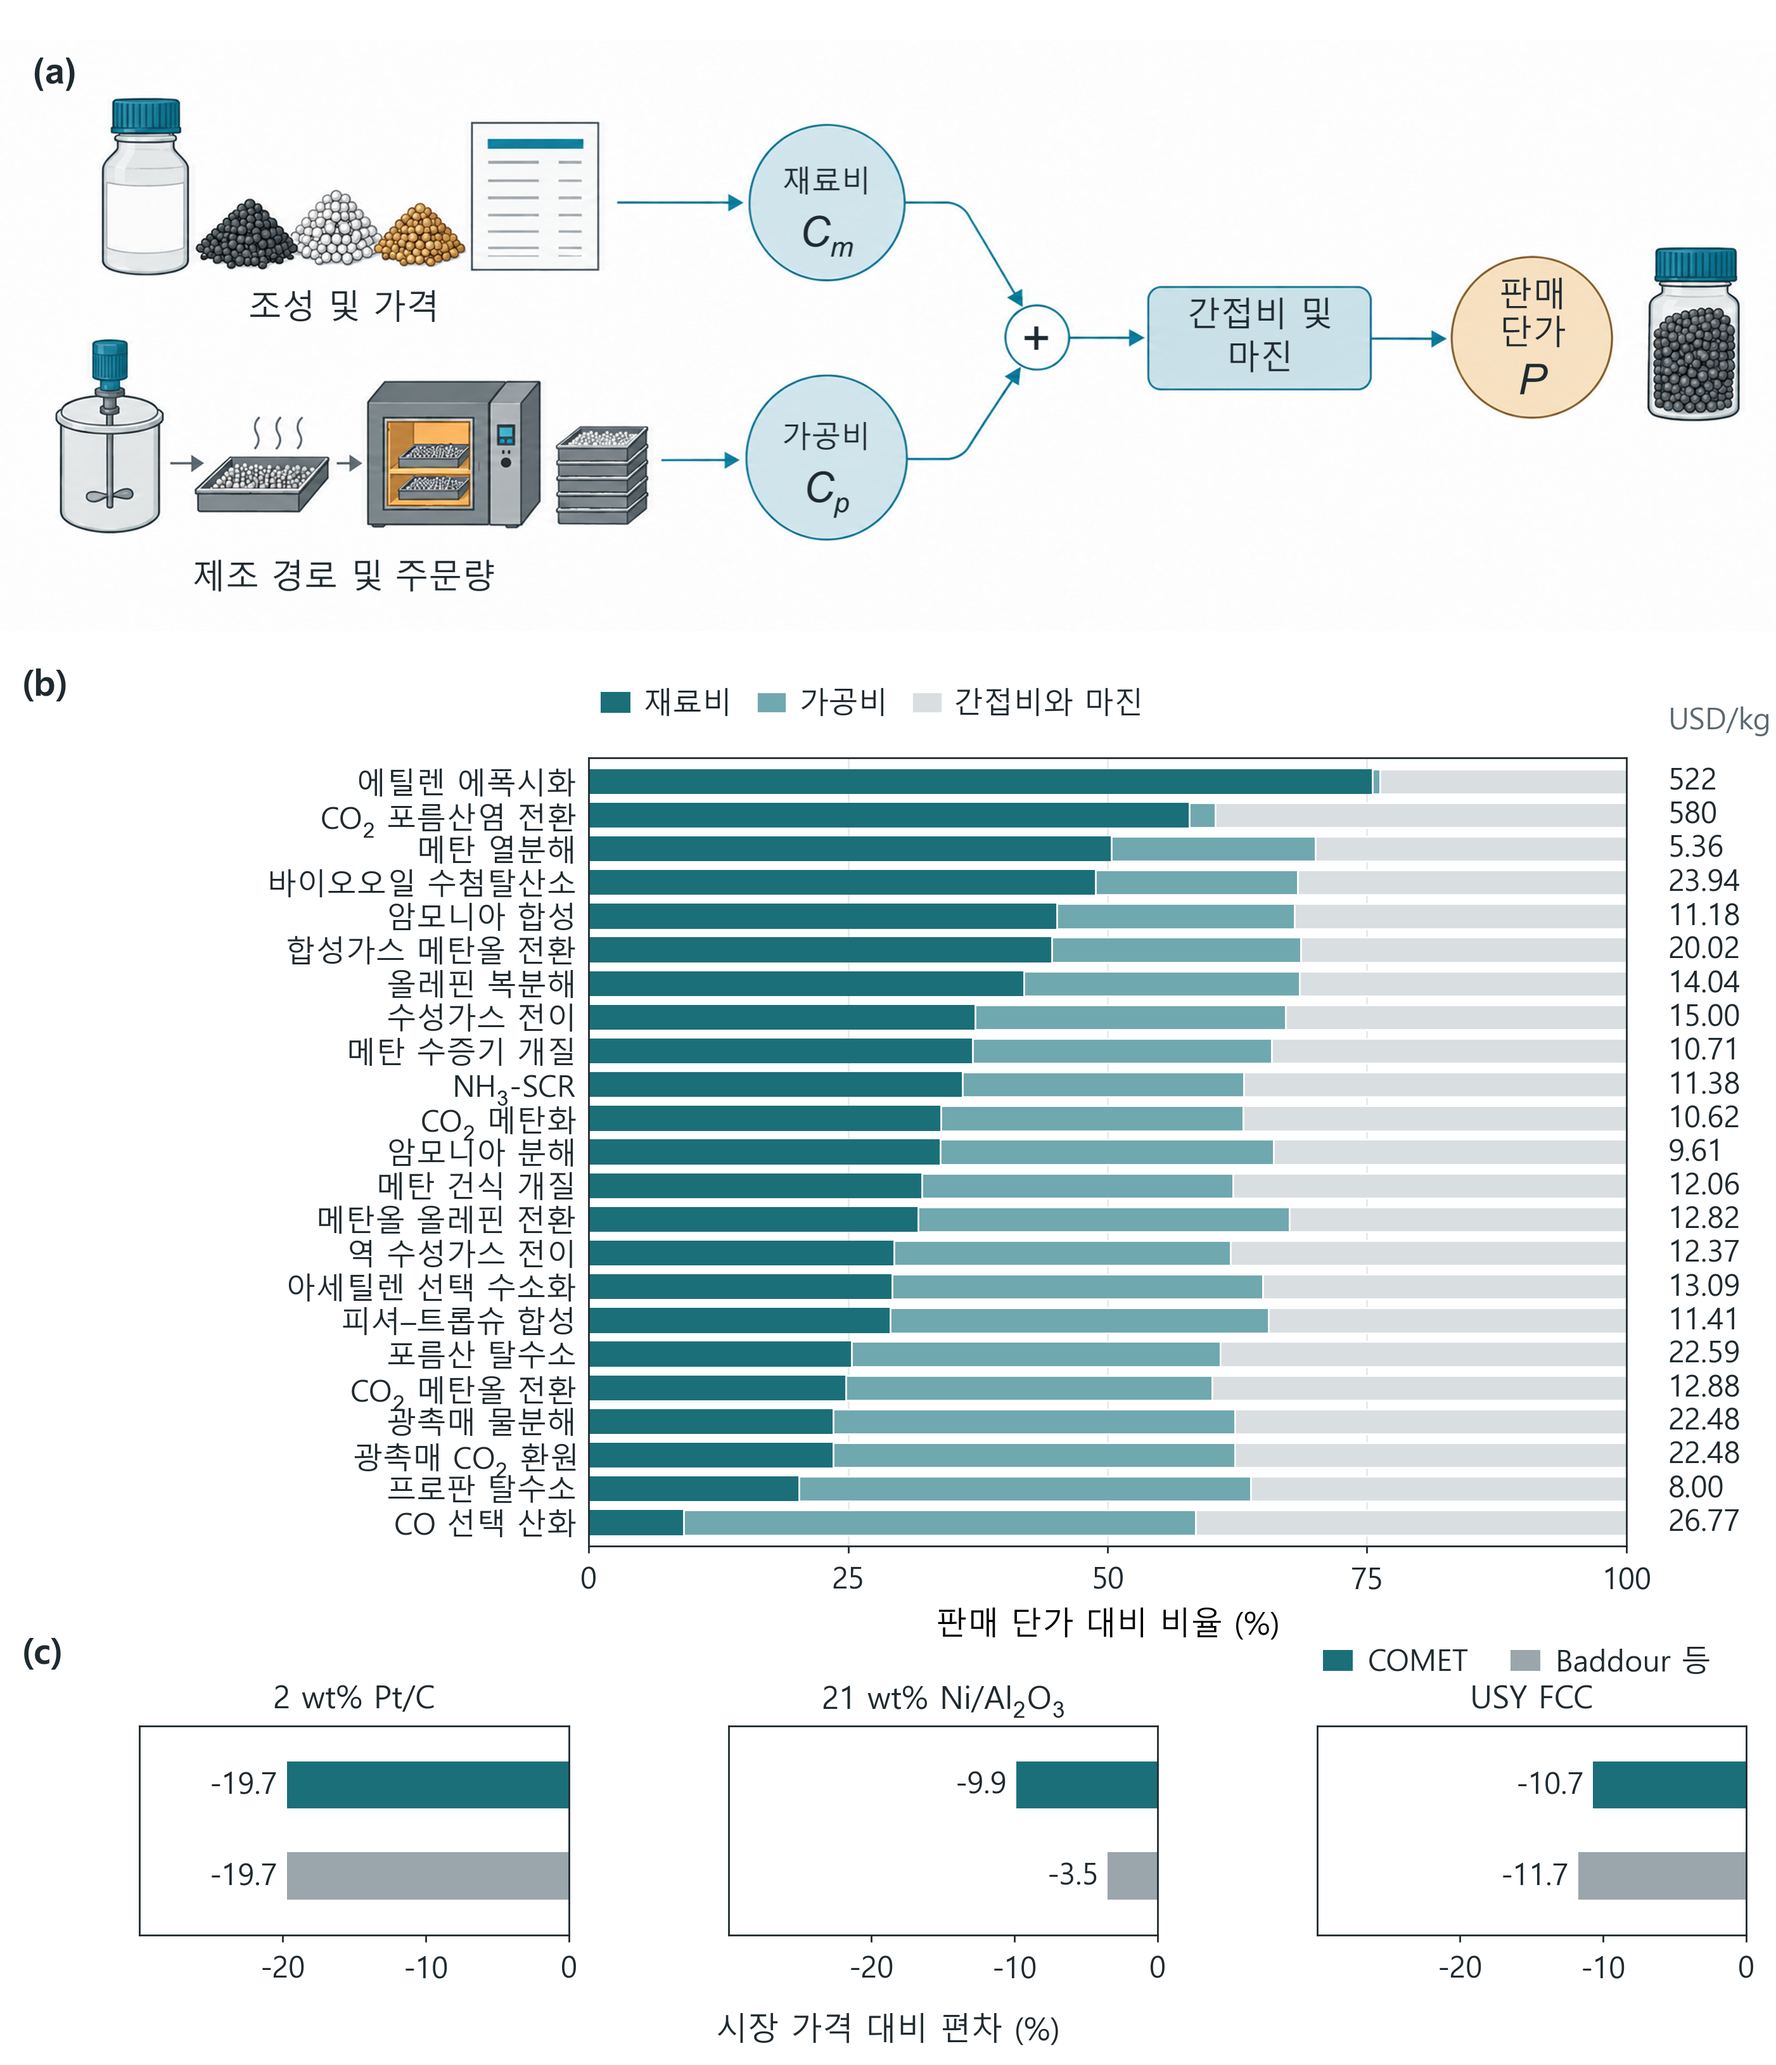
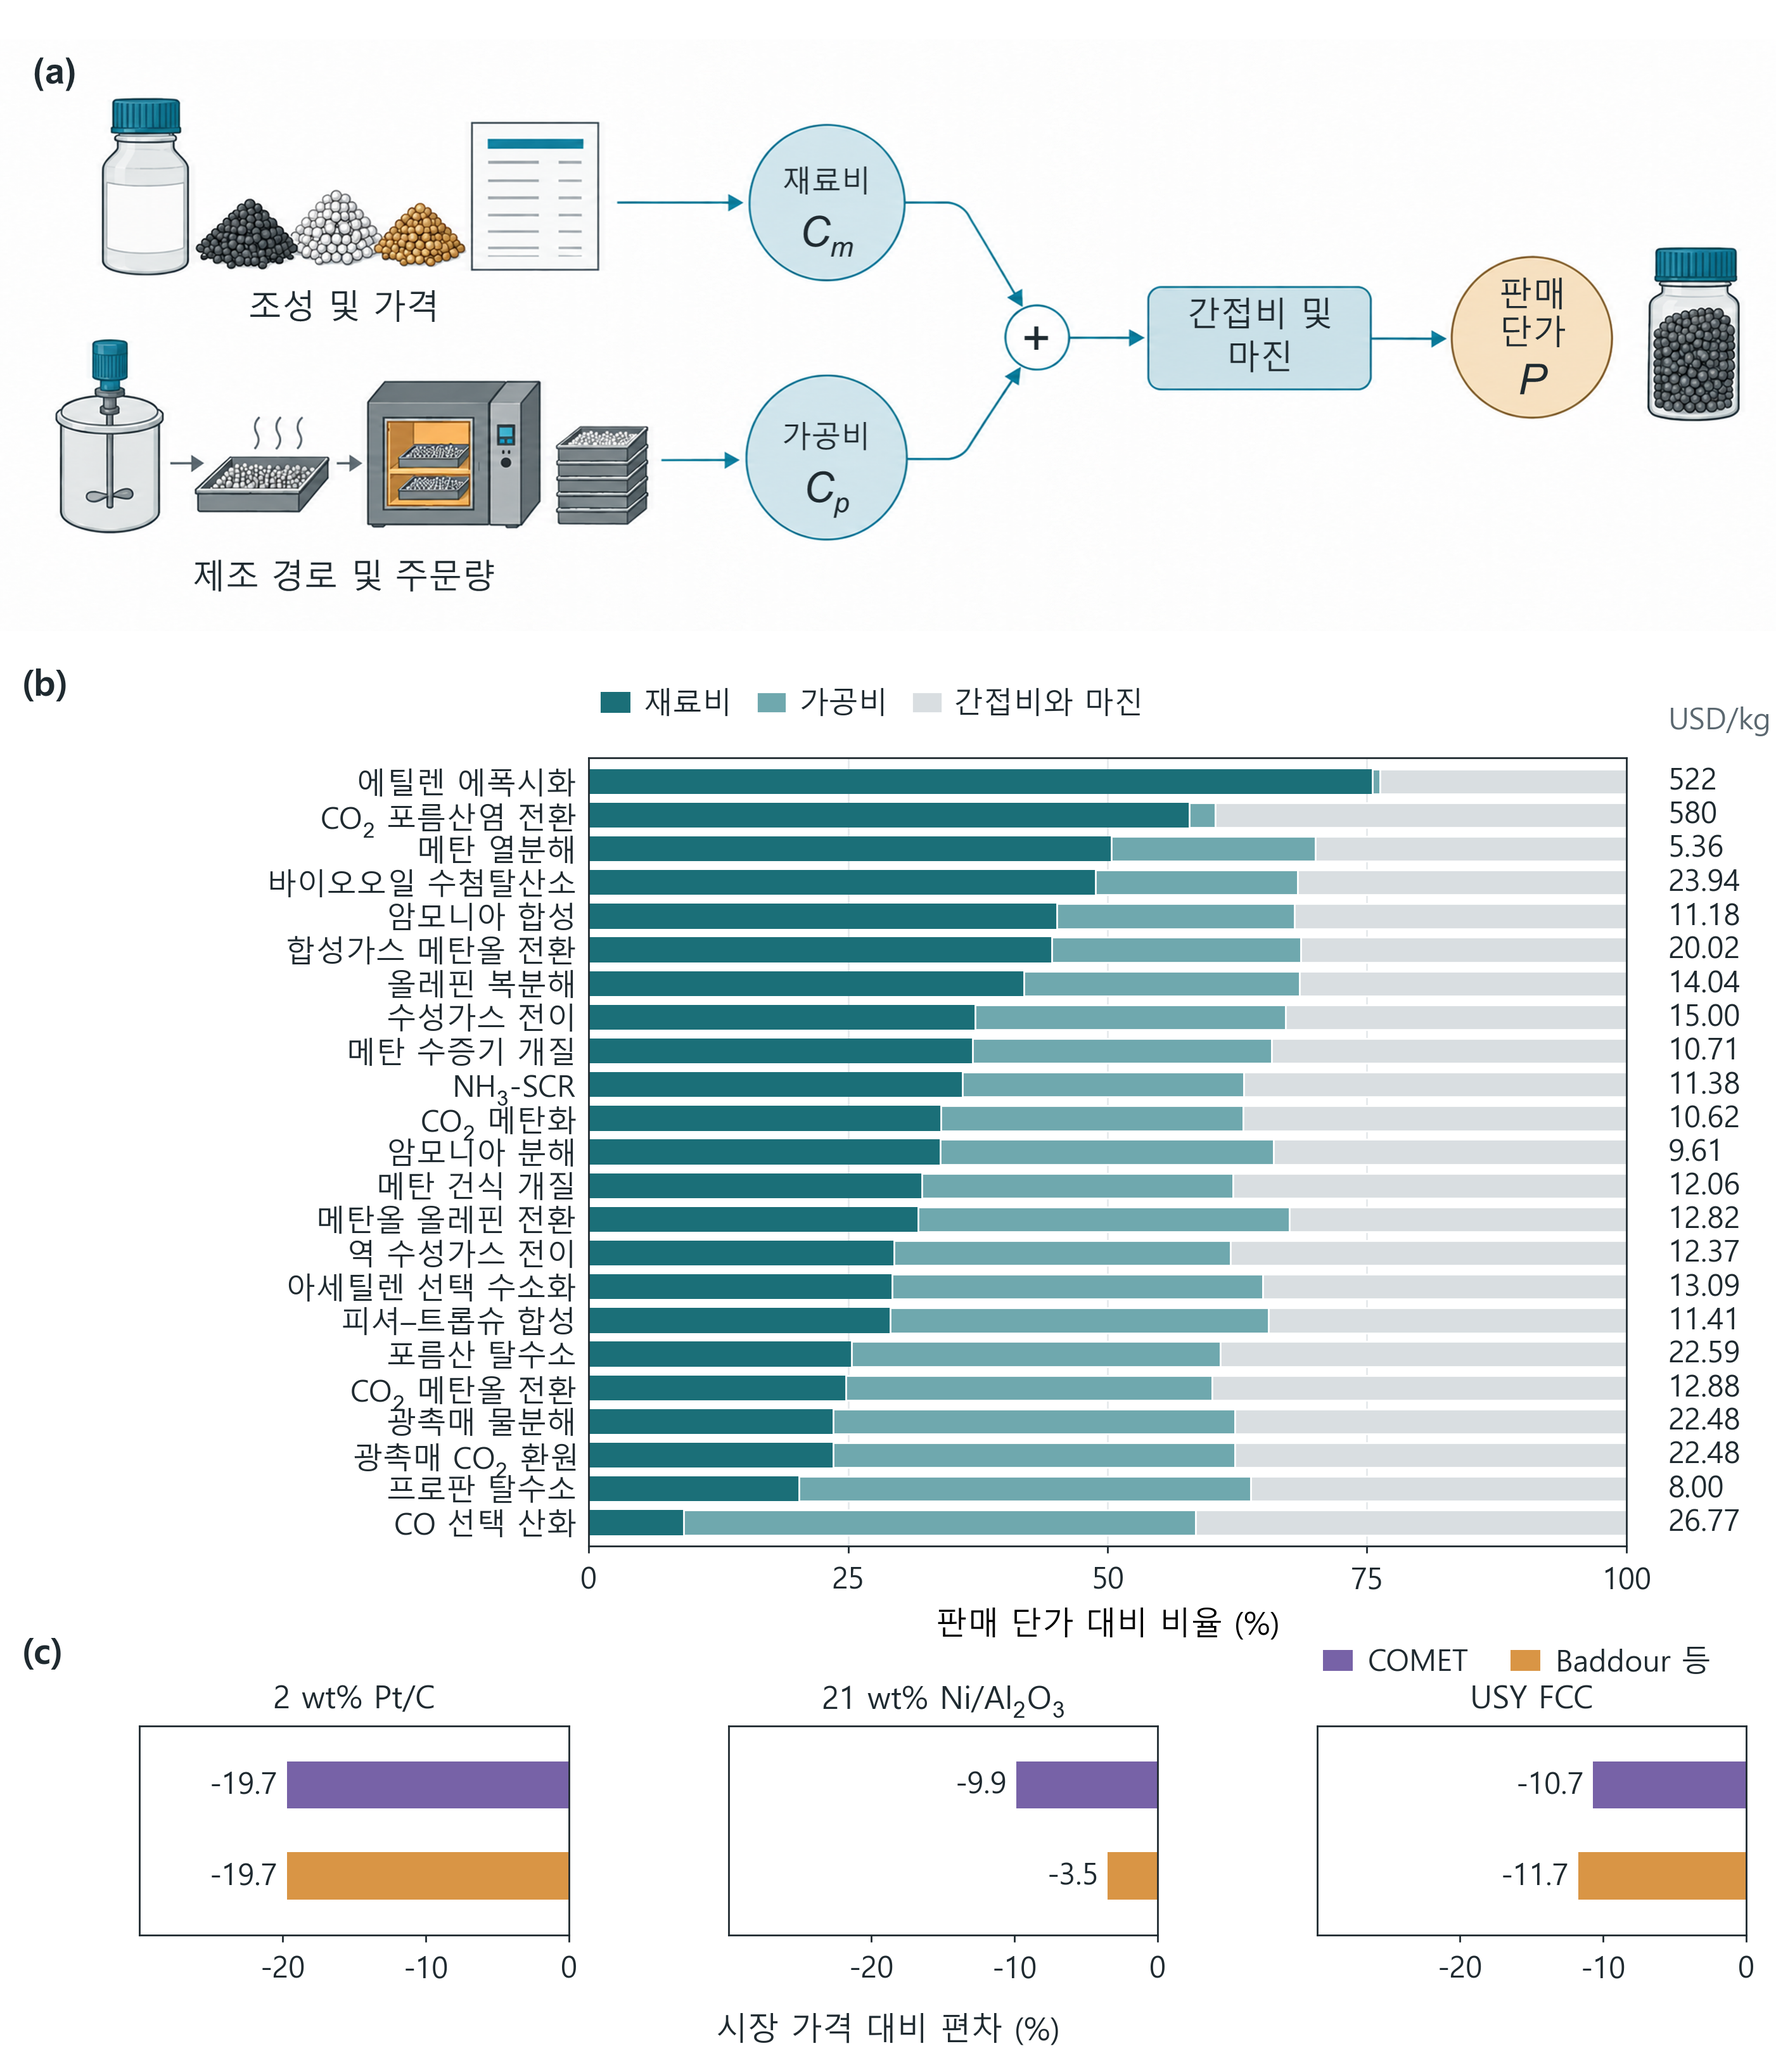
fix: distinguish figure 2 comparison colors

diff --git a/scripts/draw_application_note_figures.py b/scripts/draw_application_note_figures.py
@@ -262,13 +262,14 @@ def _structure_panel(fig):
 def _validation_panel(fig):
     """Three aligned paired comparisons on the same market-deviation scale."""
     cases = json.loads(VALIDATION.read_text(encoding="utf-8"))
+    comparison_colors = ("#7762A7", "#D99545")
     for index, case in enumerate(cases):
         ax = fig.add_axes([(14 + index * 59) / 178, 13 / 207, 43 / 178, 21 / 207])
         market = case["market"]["market_price_per_lb"]
         estimate = next(r for r in case["rows"] if r["key"] == "estimated_price_per_lb")
         ours = case.get("with_published_rate", {}).get("estimated_price_per_lb", estimate["comet"])
         values = [100 * (ours - market) / market, 100 * (estimate["published"] - market) / market]
-        for y, value, color, label in zip((1, 0), values, (ACC, GREY),
+        for y, value, color, label in zip((1, 0), values, comparison_colors,
                                           (L["c_comet"], L["c_published"]), strict=True):
             ax.barh(y, value, height=0.52, color=color, label=label)
             ax.text(value - 0.65, y, f"{value:.1f}", ha="right", va="center", fontsize=8.5)
